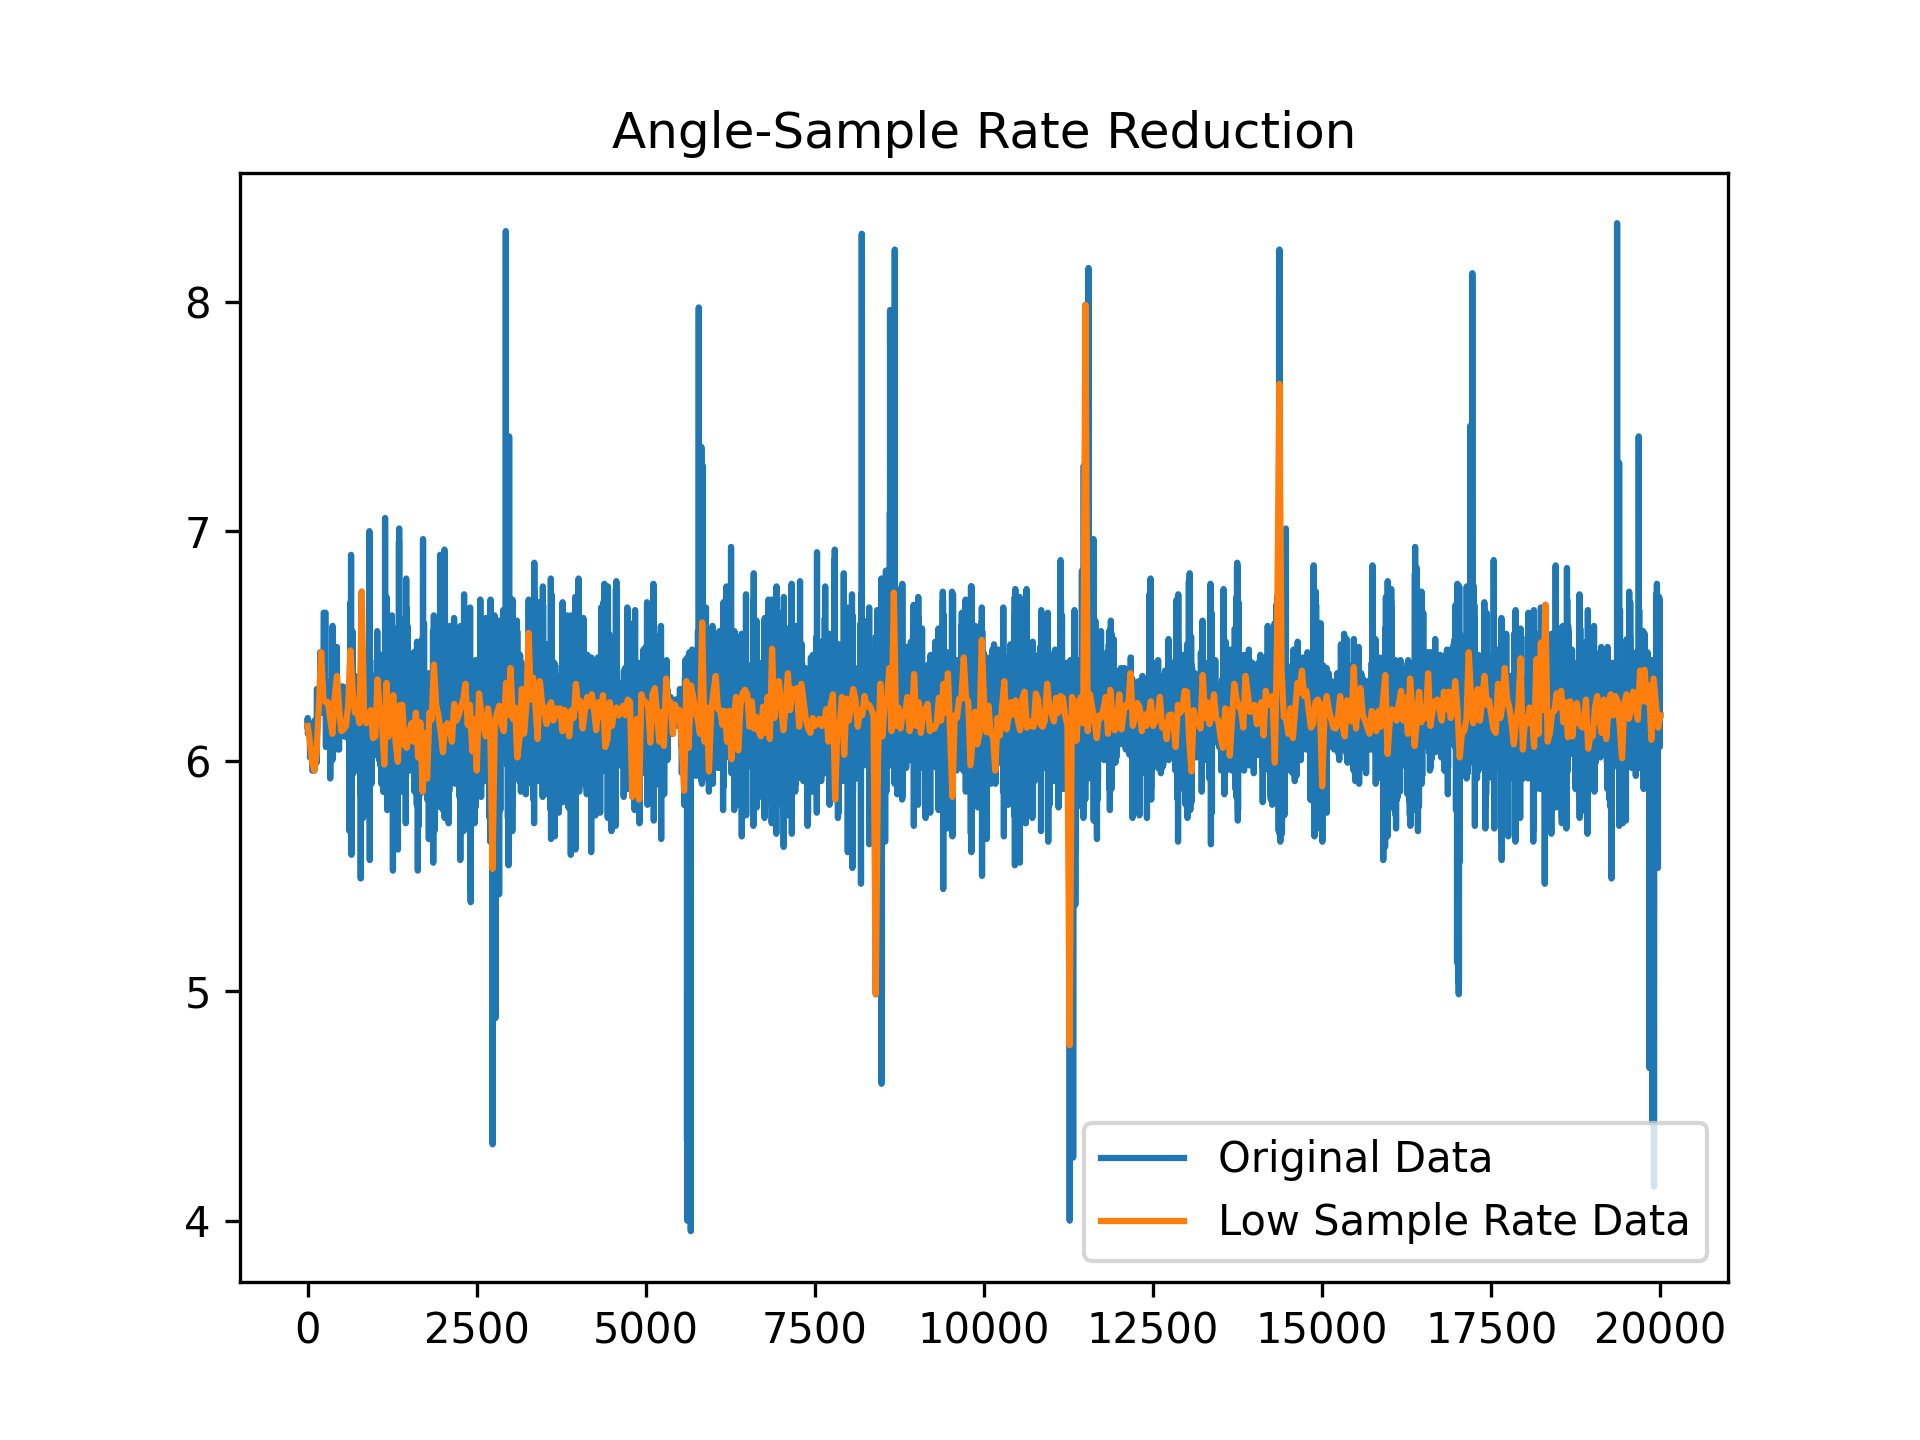
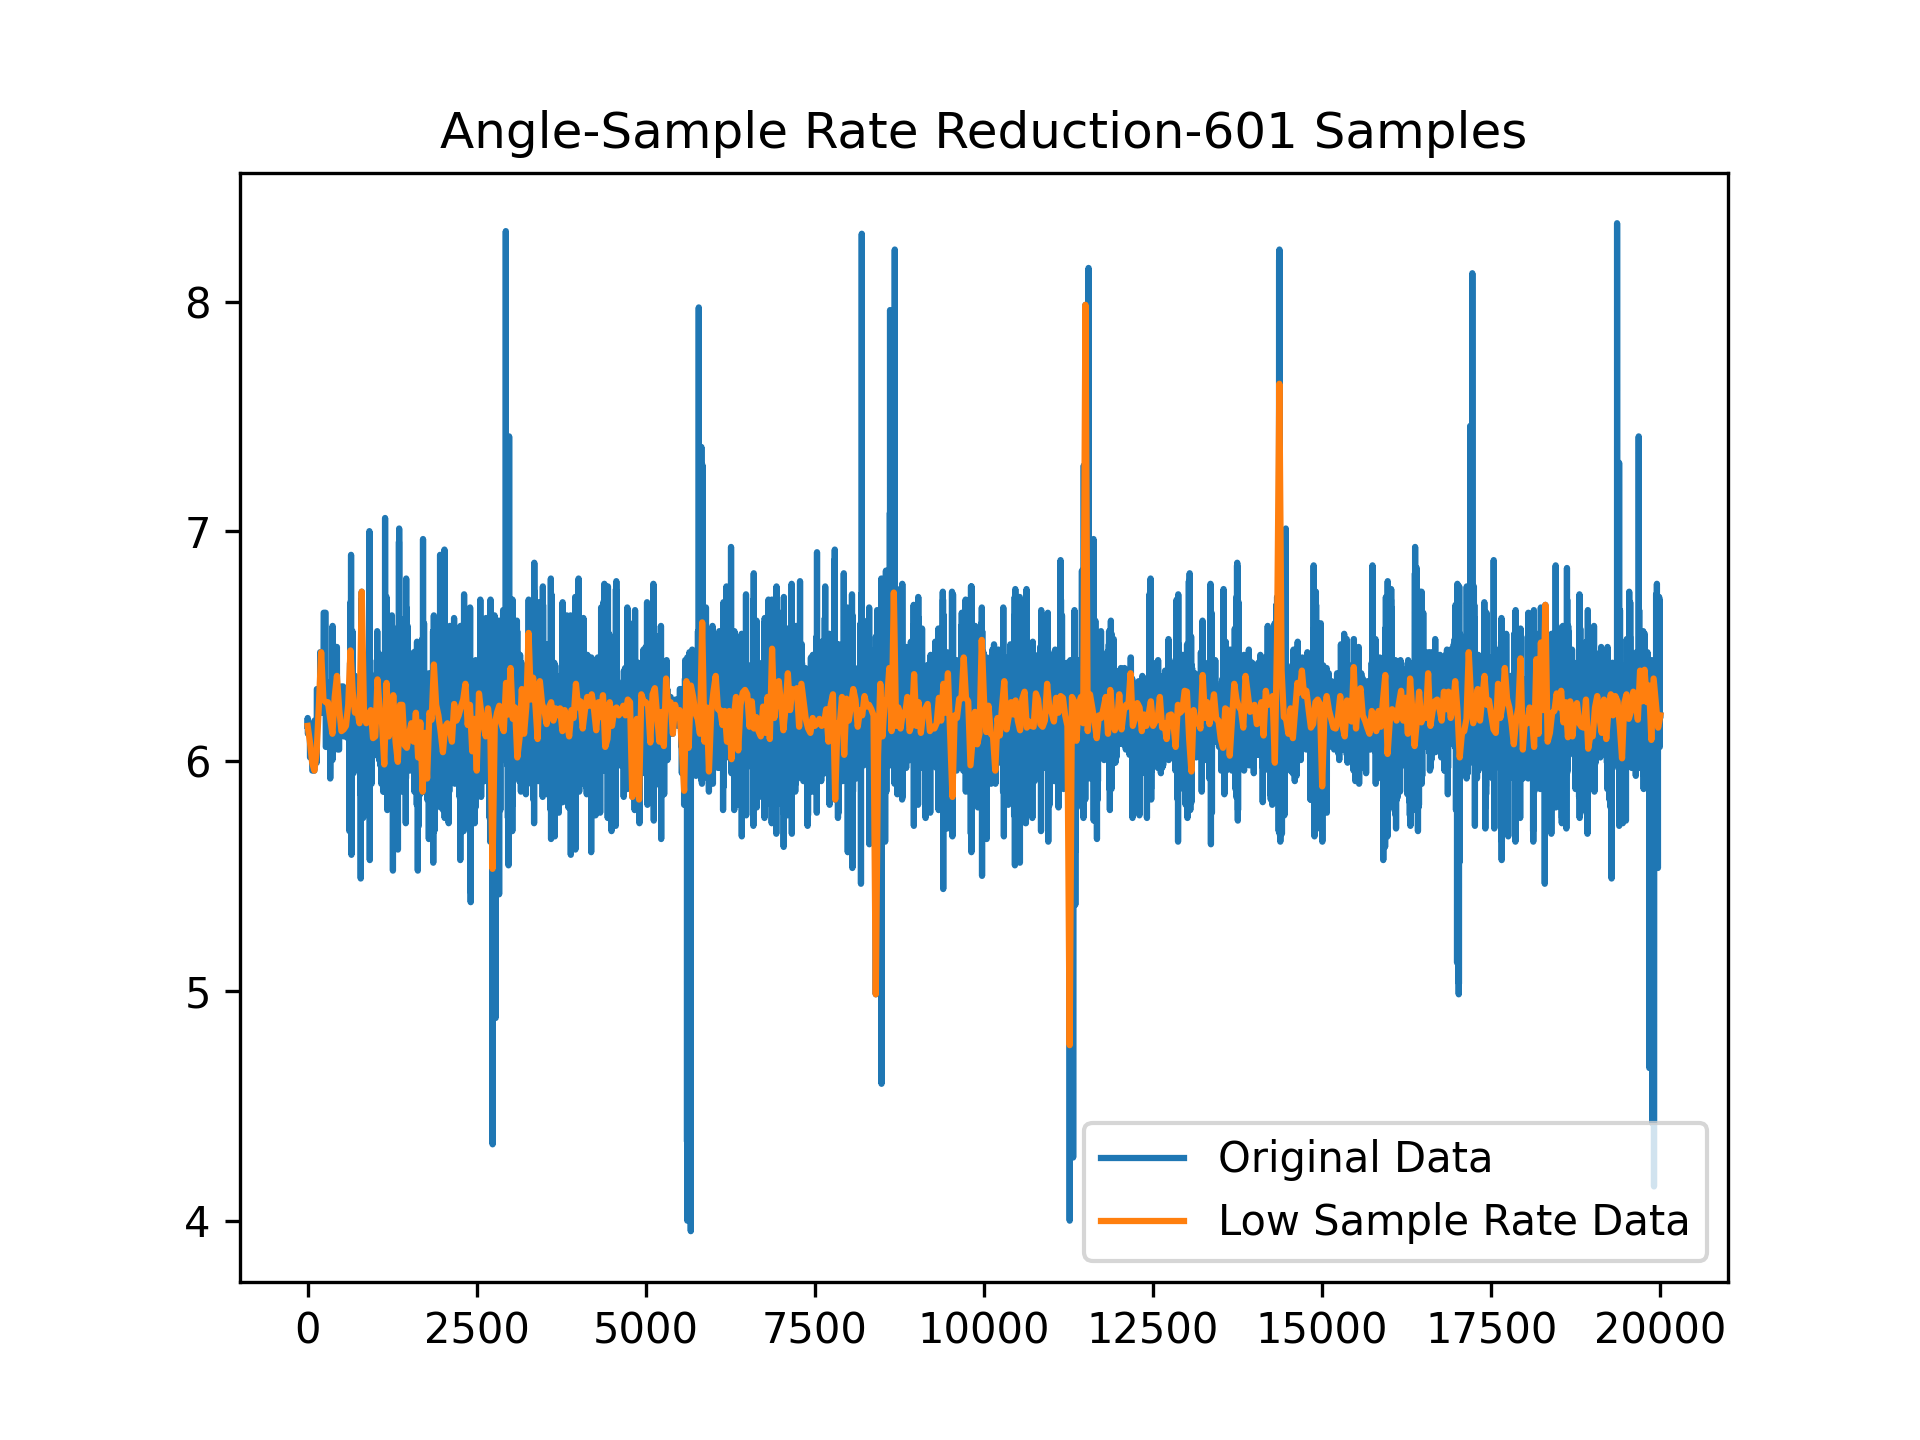
File:update preprocess

Changed region(s): [[0.2188, 0.0625, 0.7812, 0.125]]

diff --git a/preprocess1.py b/preprocess1.py
@@ -2,6 +2,7 @@ import numpy as np
 from scipy.io import loadmat
 import multiprocessing as mp
 import tqdm
+import os
 import matplotlib.pyplot as plt
 
 def mat_reader(f_path):
@@ -11,6 +12,21 @@ def mat_reader(f_path):
     images_ = 'Cut_Ultrasound'
     f_mat = loadmat(f_path)
     return f_mat[angle_], f_mat[velocity_], f_mat[torque_], f_mat[images_]
+
+def get_angle(f_info):
+    return f_info[0]
+
+def get_velocity(f_info):
+    return f_info[1]
+
+def get_torque(f_info):
+    return f_info[2]
+
+def get_images(f_info):
+    return f_info[3]
+
+def get_slices(f_info):
+    return f_info[3].shape[2]
 
 def sample_rate_normalize(input_data, target_rate=601):
     input_data = input_data.flatten()
@@ -28,11 +44,13 @@ if __name__ == "__main__":
              '/Users/zepeng/Project/muscle/processed_data/363/TS01_1/30deg_plant.mat',
              '/Users/zepeng/Project/muscle/processed_data/363/TS01_2/iso_0neutr_max.mat']
     mat_info = mat_reader(paths[0])
-    angle_low_sample, indices = sample_rate_normalize(mat_info[0])
+    print(mat_info[3].shape)
+    angle_low_sample, indices = sample_rate_normalize(mat_info[0], target_rate=get_slices(mat_info))
     plt.figure(dpi=300)
-    plt.title('Angle-Sample Rate Reduction')
+    plt.title(f'Angle-Sample Rate Reduction-{len(angle_low_sample)} Samples')
     plt.plot(mat_info[0], label='Original Data')
     plt.plot(indices, angle_low_sample, label='Low Sample Rate Data')
     plt.legend()
+    plt.savefig(os.path.join('src','readme_source','angle_low_sample_rate.png'))
     plt.show()
 
